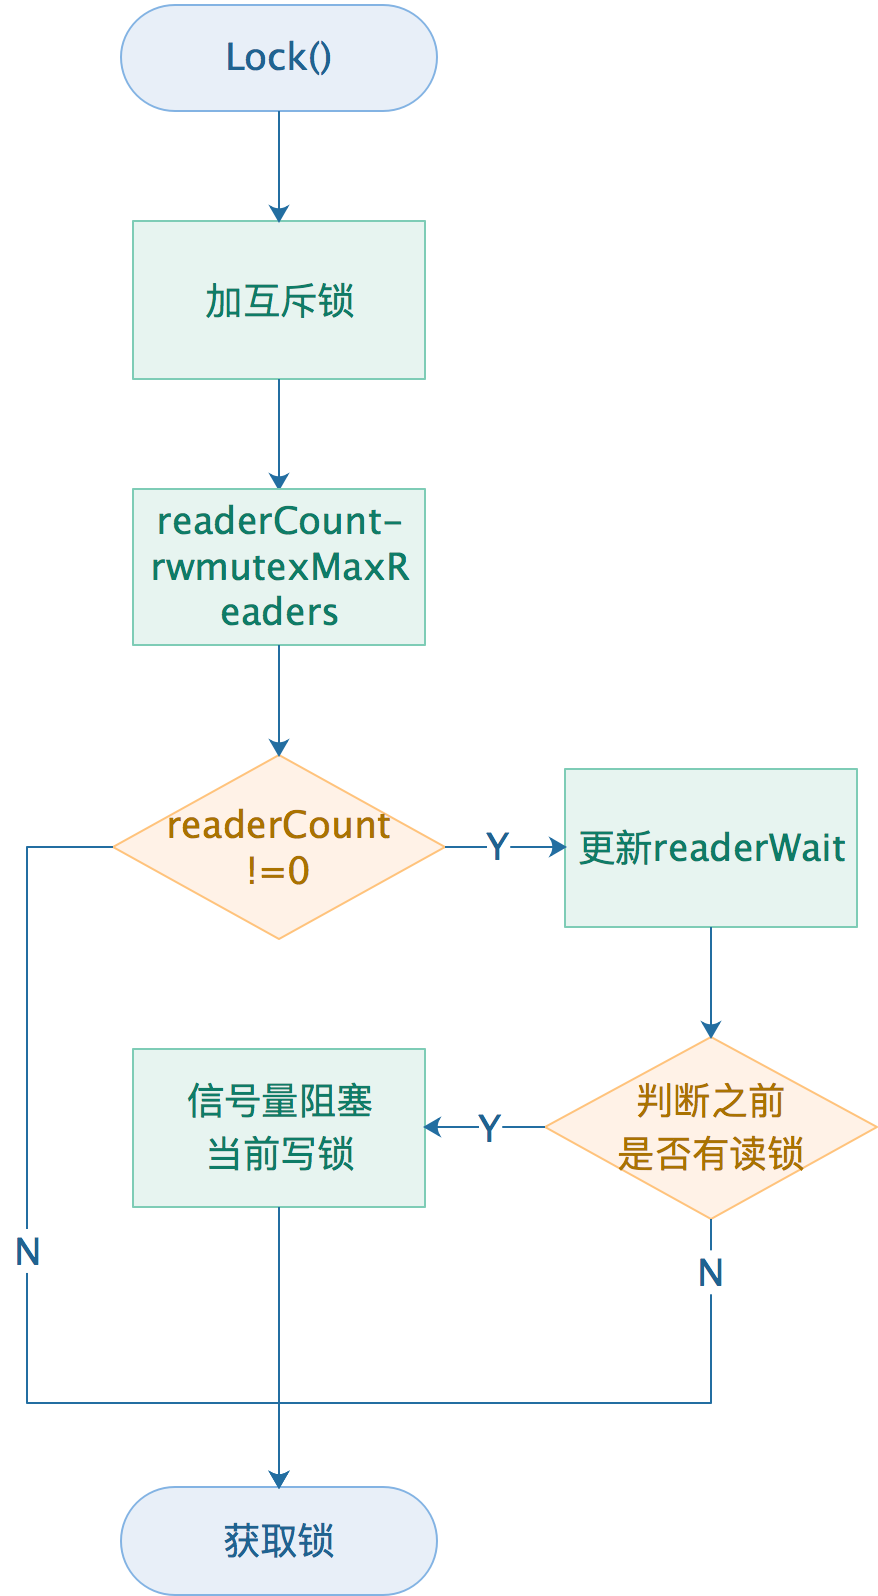
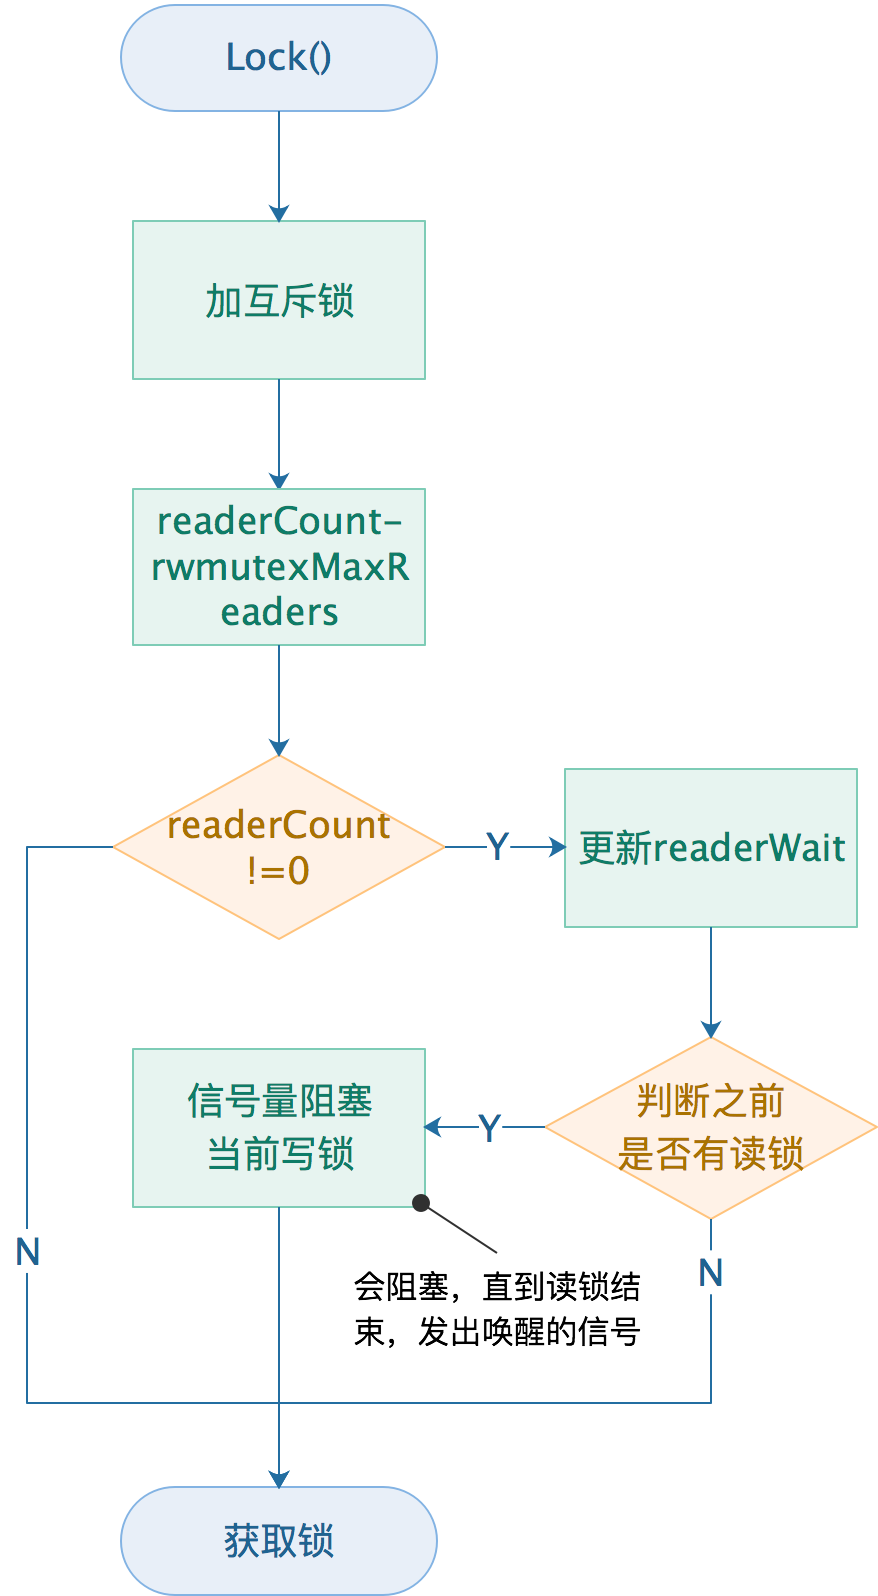
sync.RWMutex

Changed region(s): [[0.3998, 0.7982, 0.738, 0.8596], [0.4613, 0.7368, 0.492, 0.7675]]

diff --git a/sync/rwmutex/rwmutex.md b/sync/rwmutex/rwmutex.md
@@ -213,7 +213,7 @@ func (rw *RWMutex) Lock() {
 
 3、如果有读锁，阻塞当前写锁；  
 
-<img src="/img/sync_rwmutex_lock.png" width = "329" height = "562" alt="RWMutex" align=center />
+<img src="/img/sync_rwmutex_lock.png" width = "329" height = "598" alt="RWMutex" align=center />
 
 #### Unlock
 
